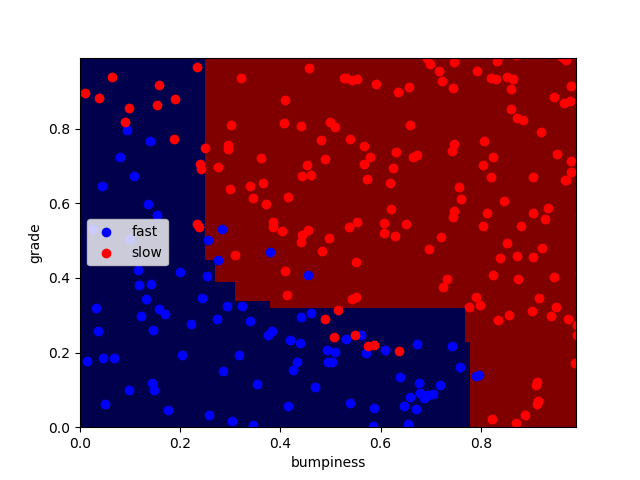
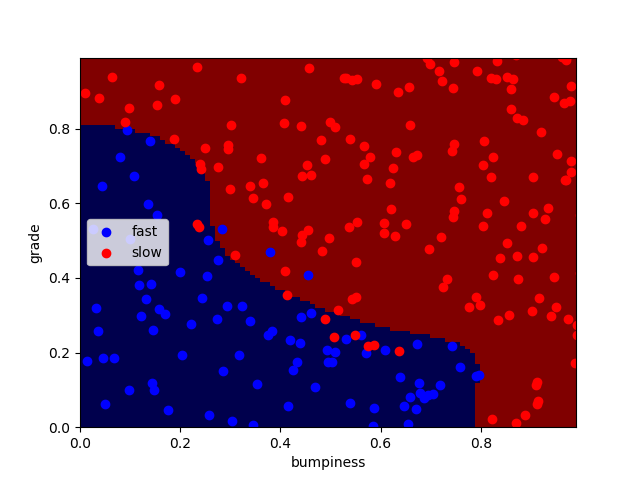
higher accuracy of 94.8 attained

Changed region(s): [[0.3125, 0.375, 0.75, 0.9062], [0.125, 0.125, 0.3438, 0.3438]]

diff --git a/svm/svm_author_id.py b/svm/svm_author_id.py
@@ -26,8 +26,8 @@ count =0
 #########################################################
 ### your code goes here ###
 
-features_train = features_train[:len(features_train)/100] 
-labels_train = labels_train[:len(labels_train)/100] 
+#features_train = features_train[:len(features_train)/100] 
+#labels_train = labels_train[:len(labels_train)/100] 
 
 svf = svm.SVC(C=10000,kernel="rbf")
 
